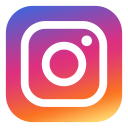
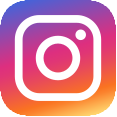
Adicionando o whatsapp

diff --git a/css/home.css b/css/home.css
@@ -167,6 +167,9 @@ h1 {
   padding: .5em;
   background-image: var(--corBlocoTitulos);
   border-radius: 5px;
+  display: flex;
+  gap: 1em;
+  width: max-content;
 }
 
 #redesSociais a:hover{
@@ -174,14 +177,21 @@ h1 {
   transition: .3s;
 }
 
+.redes{
+  display: block;
+  width: 3em;
+  height: 3em;
+  background-repeat: no-repeat;
+  background-position: center center;
+  background-size: cover;
+}
+
 #instaButton{
- display: block;
- width: 3em;
- height: 3em;
  background-image: url('../img/instagramIcon.png');
- background-repeat: no-repeat;
- background-position: center center;
- background-size: cover;  
+}
+
+#whatsappButton{
+  background-image: url('../img/iconeWhatsapp.png');
 }
 
 

diff --git a/index.html b/index.html
@@ -22,7 +22,8 @@
   </header>
   <main>
     <div id="redesSociais">
-      <a href="https://www.instagram.com/azsolucoesamparo?igsh=ZDlubW1pZTA1ejQ2" id="instaButton" target="_blank"></a>
+      <a href="https://wa.me/19993132000" id="whatsappButton" target="_blank" class="redes"></a>
+      <a href="https://www.instagram.com/azsolucoesamparo?igsh=ZDlubW1pZTA1ejQ2" id="instaButton" target="_blank" class="redes"></a>
     </div>
     <div id="tituloContainer">
       <div id="tituloConteudo">
